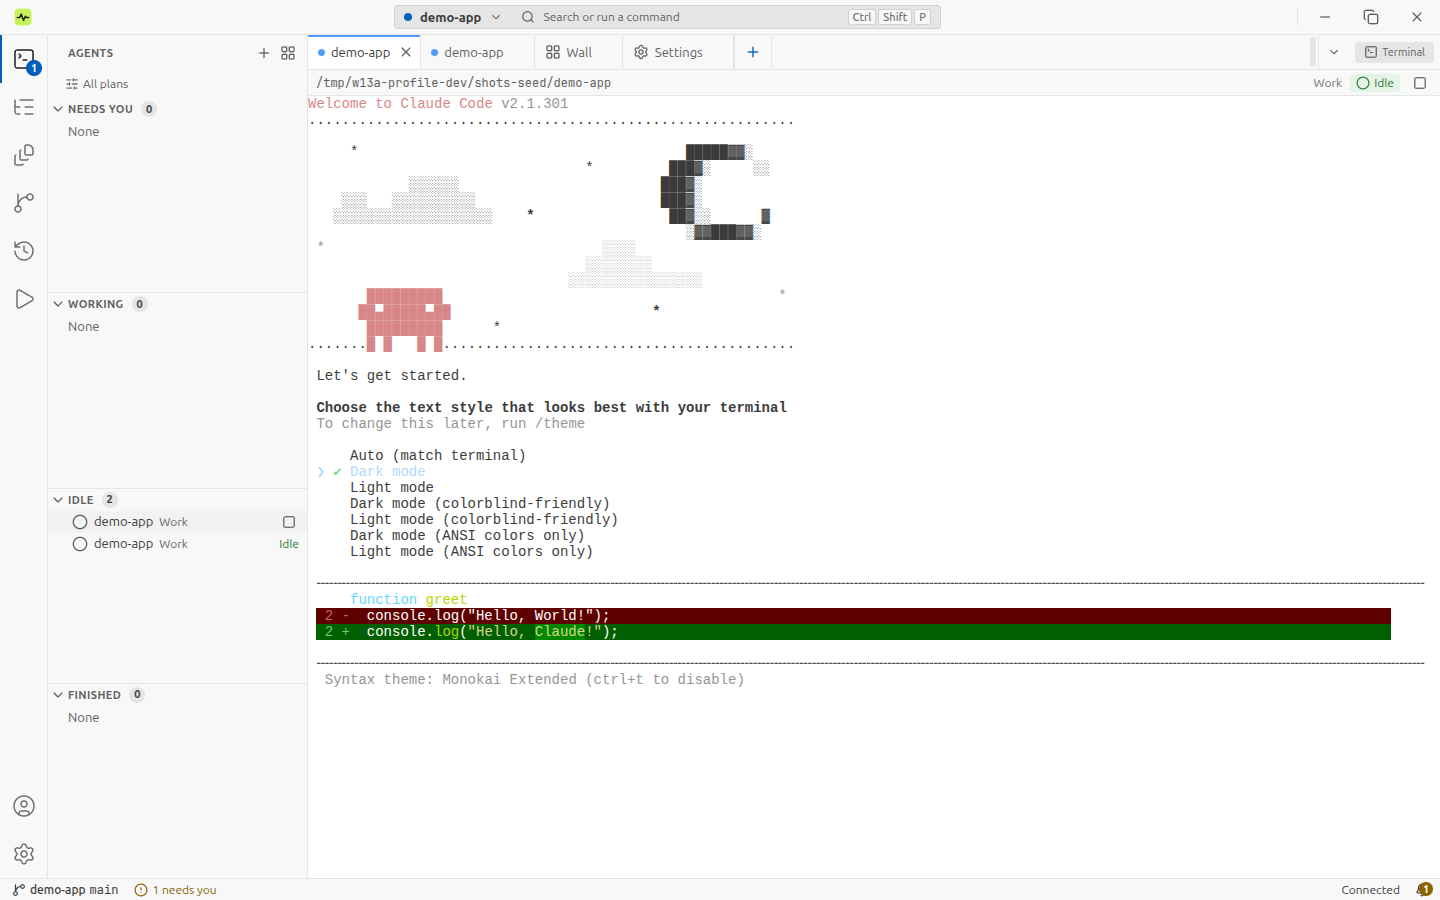
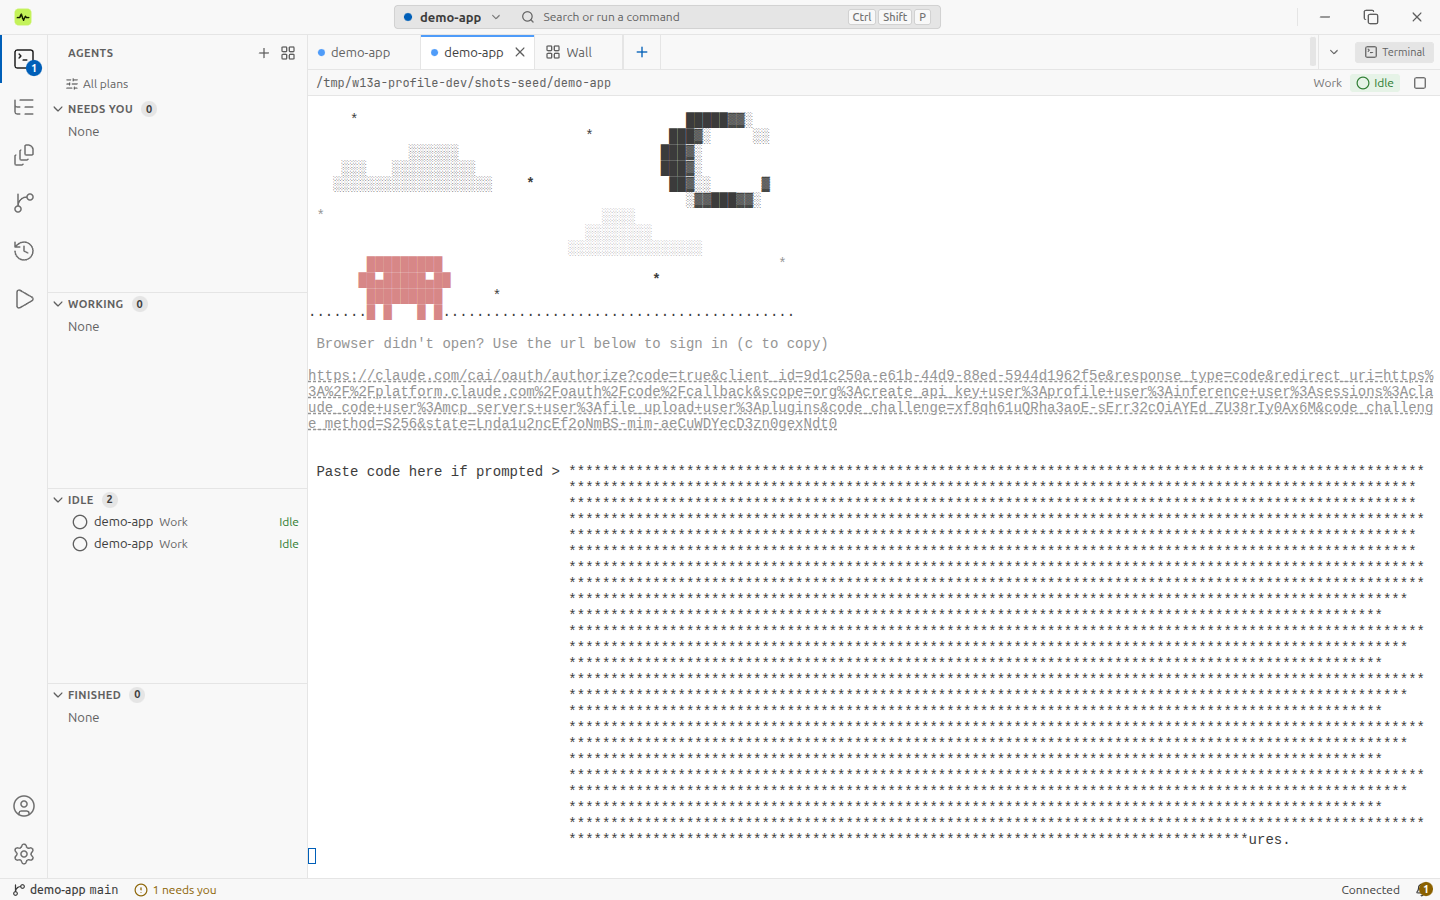
fix(wall): wall covers only the group body so the tab strip stays; live previews show; retake shots

diff --git a/src/renderer/src/components/wall/wall.css b/src/renderer/src/components/wall/wall.css
@@ -20,9 +20,9 @@ button.summary-card__title:hover .summary-card__title-text { text-decoration: un
 
 /* W9-H, W11 Agents page (DESIGN-W11 §7, §9). Colours are tokens only (styles/tokens.css). */
 
-.agents-page { flex: 1; display: flex; flex-direction: column; min-width: 0; min-height: 0; background: var(--bg); }
+.agents-page { position: relative; flex: 1; display: flex; flex-direction: column; min-width: 0; min-height: 0; background: var(--bg); }
 .agents-page__body { flex: 1; display: flex; min-height: 0; }
-/* App's Content (the pane grid) lives here for every session's life; hidden, never unmounted, while the wall shows. */
+/* App's Content (the pane grid, tab strip included) lives here for every session's life; the wall covers only the group body below the strip (.wall). */
 .agents-page__console { flex: 1; display: flex; min-width: 0; min-height: 0; }
 
 /* Status dots (the strip, the details panel's Task list) */
@@ -37,7 +37,7 @@ button.summary-card__title:hover .summary-card__title-text { text-decoration: un
 .wall-dot--cat-failed { background: var(--danger); }
 
 /* The wall: the page header, then the plan groups. The header stays put while the groups scroll under it. */
-.wall { flex: 1; min-height: 0; display: flex; flex-direction: column; }
+.wall { position: absolute; inset: var(--pane-tabbar-h) 0 0 0; z-index: 1; display: flex; flex-direction: column; background: var(--bg); }
 .wall-toolbar { flex: none; display: flex; align-items: center; gap: var(--sp-2); height: 32px; padding: 0 var(--sp-3); border-bottom: 1px solid var(--line); background: var(--panel); overflow-x: auto; }
 .wall > .ui-empty { flex: 1; }
 .wall-body { flex: 1; min-height: 0; overflow: auto; padding: var(--sp-3) var(--sp-3) var(--sp-6); display: flex; flex-direction: column; gap: var(--sp-4); }
@@ -108,6 +108,7 @@ button.summary-card__title:hover .summary-card__title-text { text-decoration: un
   border-radius: var(--radius); pointer-events: none; background: var(--term-bg); font-family: var(--mono);
   -webkit-mask-image: linear-gradient(to bottom, transparent, var(--term-bg) 35%); mask-image: linear-gradient(to bottom, transparent, var(--term-bg) 35%);
 }
+.wall-tile .wall-tile__term { flex: none; }
 .wall-tile--main .wall-tile__term { flex: 1; min-height: calc(6 * 14px + var(--sp-2)); }
 .wall-tile__term > .xterm { position: absolute; left: var(--sp-2); bottom: var(--sp-1); transform-origin: left bottom; }
 /* A chat tile's preview: the last reply's lines, bottom-anchored so the top is what gets cropped (the xterm tiles crop the

diff --git a/src/renderer/src/components/pages/AgentsPage.tsx b/src/renderer/src/components/pages/AgentsPage.tsx
@@ -245,7 +245,7 @@ export function AgentsPage({ sessions, accounts, currentProject, scopeId, allPro
           )}
         </div>
       )}
-      <div className="agents-page__body" style={view.kind === 'wall' ? { display: 'none' } : undefined}>
+      <div className="agents-page__body">
         <div className="agents-page__console" ref={consoleRef}>
           {children}
         </div>
